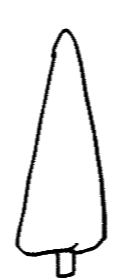
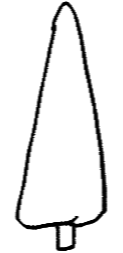
clicked tree changes colour
- upload one more tree image (in to the project directory)
- update tree image dimensions (so that they both match) in css & js files
- clicked tree changes colour

Changed region(s): [[0.122, 0.0, 0.878, 0.996], [0.8293, 0.7747, 0.8537, 0.8024]]

diff --git a/scripts/script.js b/scripts/script.js
@@ -14,11 +14,16 @@ function counter(e) {
     collect information on trees
     ------------------------------------------------------------  */
 
+const dir = 'assets/images/'
 /** @type {string} location of tree image */ 
-const treeImgSrc = 'assets/images/tree-fir-2.png'
+const treeImgSrc = 'tree-fir-2.png'
+const treeImgSrcP = 'tree-fir-2-p.png'
 
 /** @type {{width: number, height: number}} dimensions of the tree image */
-const treeImgDim = { width: 123, height: 280 }
+const treeImgDim = { 
+    width: 123, 
+    height: 253 
+}
 
 /*  ------------------------------------------------------------
     spawn trees into the forest 
@@ -56,7 +61,7 @@ for (let i = 0 ; true ; i++) {
     newDiv.setAttribute('class', 'tree')
     newDiv.setAttribute('id', 'tree-'+(i+1))
     // add tres-image into newDiv
-    newDiv.setAttribute('src', treeImgSrc)
+    newDiv.setAttribute('src', dir+treeImgSrc)
     // position the tree (so that it sits at the correct location within a desired pattern in the forest)
     newDiv.style.left = forest.offsetLeft + fSettings.hpadding + (treeIDinRow * fSettings.hSpacing) + ( rowID % 2 === 0 ? (fSettings.hSpacing/4) : (-fSettings.hSpacing/4) ) + 'px'
     newDiv.style.top = forest.offsetTop + fSettings.vpadding + fSettings.vSpacing * rowID + 'px'
@@ -107,17 +112,39 @@ function didClickHappenOnTree(e) {
     c = document.elementsFromPoint(x,y) 
     console.log(c)
 
+    let C = []
+
     // ... and, in that array, find those elements which were of the type 'HTMLImageElement'
     for(const i in c) {
             if ( 
                 // for more info about the 'constructor' property, and about this condition-check, please read: https://www.w3schools.com/js/js_typeof.asp.
                 c[i].constructor.toString().indexOf("HTMLImageElement()") > -1 
                 ) {
+                C.push(c[i])
                 const ImageElementOfClickedTree = c[i]
                 // offer some kind of feedback to show which tree was clicked on
                 changeOpacity(ImageElementOfClickedTree)
                 updateNewsTicker(ImageElementOfClickedTree)
-            }
+            } 
+    }
+
+    // from the many 'HTMLImageElement' elements, pick one, and change its state to 'protected'
+    makeTreeProtected(document.getElementById(C[Math.floor(C.length/2)].id))
+
+    // helper functions
+
+    function makeTreeProtected(imgelement) {
+        const root = imgelement.src.substring(0,imgelement.src.indexOf(dir))
+        const currentsrc = imgelement.src.substring(imgelement.src.indexOf(dir),imgelement.src.length)
+
+        if (currentsrc == dir+treeImgSrc) {
+            imgelement.src = root+dir+treeImgSrcP
+            console.log("tree id #" + imgelement.id + " set to 'protected' status")
+        }
+        else {
+            imgelement.src = root+dir+treeImgSrc
+            console.log("tree id #" + imgelement.id + " set to 'unprotected' status")
+        }
     }
 
     function changeOpacity(t) {
@@ -126,13 +153,12 @@ function didClickHappenOnTree(e) {
         if ( currentOpacity <= 0.5 ) 
             factor = 2 
         else 
-            factor = .5
+            factor = .9
         t.style.opacity = currentOpacity * factor
     }
 
     function updateNewsTicker(imgelement) {
         document.getElementById("newsTicker").innerHTML += " " + imgelement.id[5]
     }
-
     document.getElementById("newsTicker").innerHTML += ' • '
 }

diff --git a/styles/style.css b/styles/style.css
@@ -6,7 +6,7 @@
     --yellow: #ffcc00;
     --green: #00aa55;
     --treewidth: 123px;
-    --treeheight: 280px;
+    --treeheight: 253px;
 }
 
 body {
